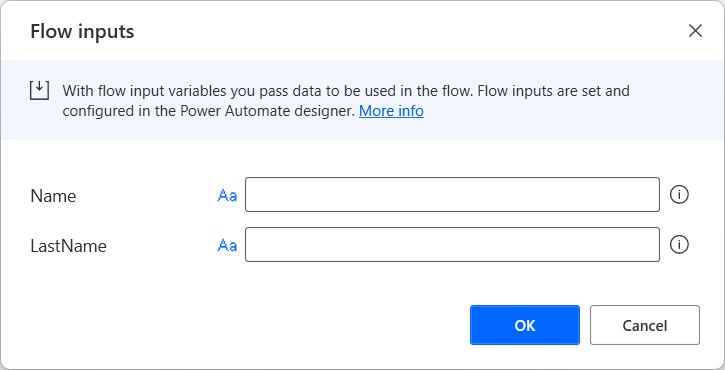
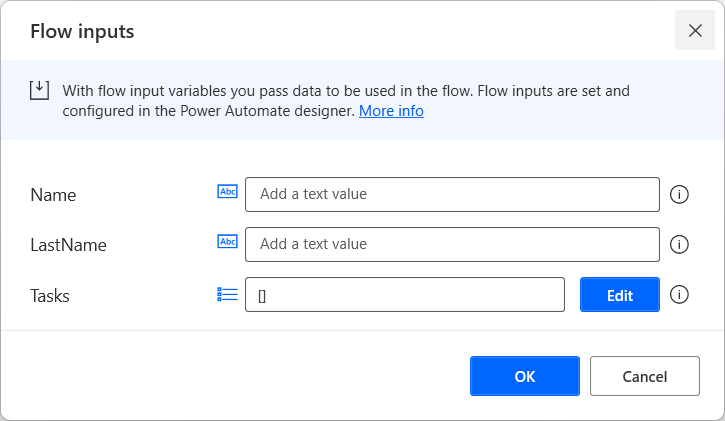
Updates in Create an input variable

diff --git a/articles/desktop-flows/manage-variables.md b/articles/desktop-flows/manage-variables.md
@@ -73,9 +73,8 @@ To create an input variable:
 
 1. When the **Add a new input variable** dialog is appeared, populate the following fields:
 
-    - **Variable type**: Defines if the variable is input or output.
     - **Variable name**: The name of the variable in the flow.
-    - **Data type**: The type of the variable, text.
+    - **Data type**: The type of the variable: text, number, boolean, custom object, list or datatable.
     - **Default value**: The default value when the flow runs from the Power Automate flow designer or the Power Automate console.
     - **External name**: The name used outside the flow. The external name is the name that will appear in Power Automate.
     - **Description**: A description of the variable that will appear in Power Automate and the Flow inputs dialog.
@@ -89,9 +88,13 @@ To create an input variable:
 
      ![Screenshot of the Add a new input variable dialog box.](media\input-output-variables\Add-new-input-variable-dialog.png)
 
-If you run a flow containing input variables through the console, the **Flow inputs** dialog will prompt you to set their values manually. You can find more information about running flows in [Run attended and unattended desktop flows](run-pad-flow.md). 
+When creating a custom object, list, or datatable input variable, Power Automate lets you construct a default value through a visual editor or a JSON editor.
 
-   ![Screenshot of the Flow inputs dialog.](media\input-output-variables\flow-input-dialog.png)
+![Screenshot of a custom object input variable in the visual editor.](media\input-output-variables\custom-object-input-variable.png)
+
+If you run a flow containing input variables through the console, the **Flow inputs** dialog will prompt you to set their values manually. For custom objects, lists, or datatables, the dialog allow you to create the variables using a visual or JSON editor. You can find more information about running flows in [Run attended and unattended desktop flows](run-pad-flow.md). 
+
+![Screenshot of the Flow inputs dialog.](media\input-output-variables\flow-input-dialog.png)
 
 ### Create an output variable
 
@@ -103,8 +106,8 @@ To create an output variable:
 
 1. When the **Add a new output variable** dialog is appeared, populate the following fields:
 
-    - **Variable type**: Defines if the variable is input or output.
     - **Variable name**: The name of the variable in the flow.
+    - **Data type**: The type of the variable: text, number, boolean, custom object, list or datatable.
     - **External name**: The name used outside the flow. The external name is the name that will appear in Power Automate.
     - **Description**: A description of the variable that will appear in Power Automate.
     - **Mark as sensitive**: Defines whether to mark the variable as sensitive or not. You can find information regarding senstive variables in [Sensitive variables](#sensitive-variables).
@@ -116,6 +119,8 @@ To create an output variable:
     > If you choose an existing flow variable name for a new output variable, Power Automate will prompt you to confirm the merging of the two variables. Unintentional merging may affect the functionality of your flow and cause errors. Also, you can't use the name of an existing input or output variable.
 
     ![Screenshot of the Add a new output variable dialog box.](media\input-output-variables\Add-new-output-variable-dialog.png)
+
+When creating a custom object, list, or datatable input variable, Power Automate lets you construct a default value through a visual builder or a JSON editor.
 
 ### Manage input and output variables
 
